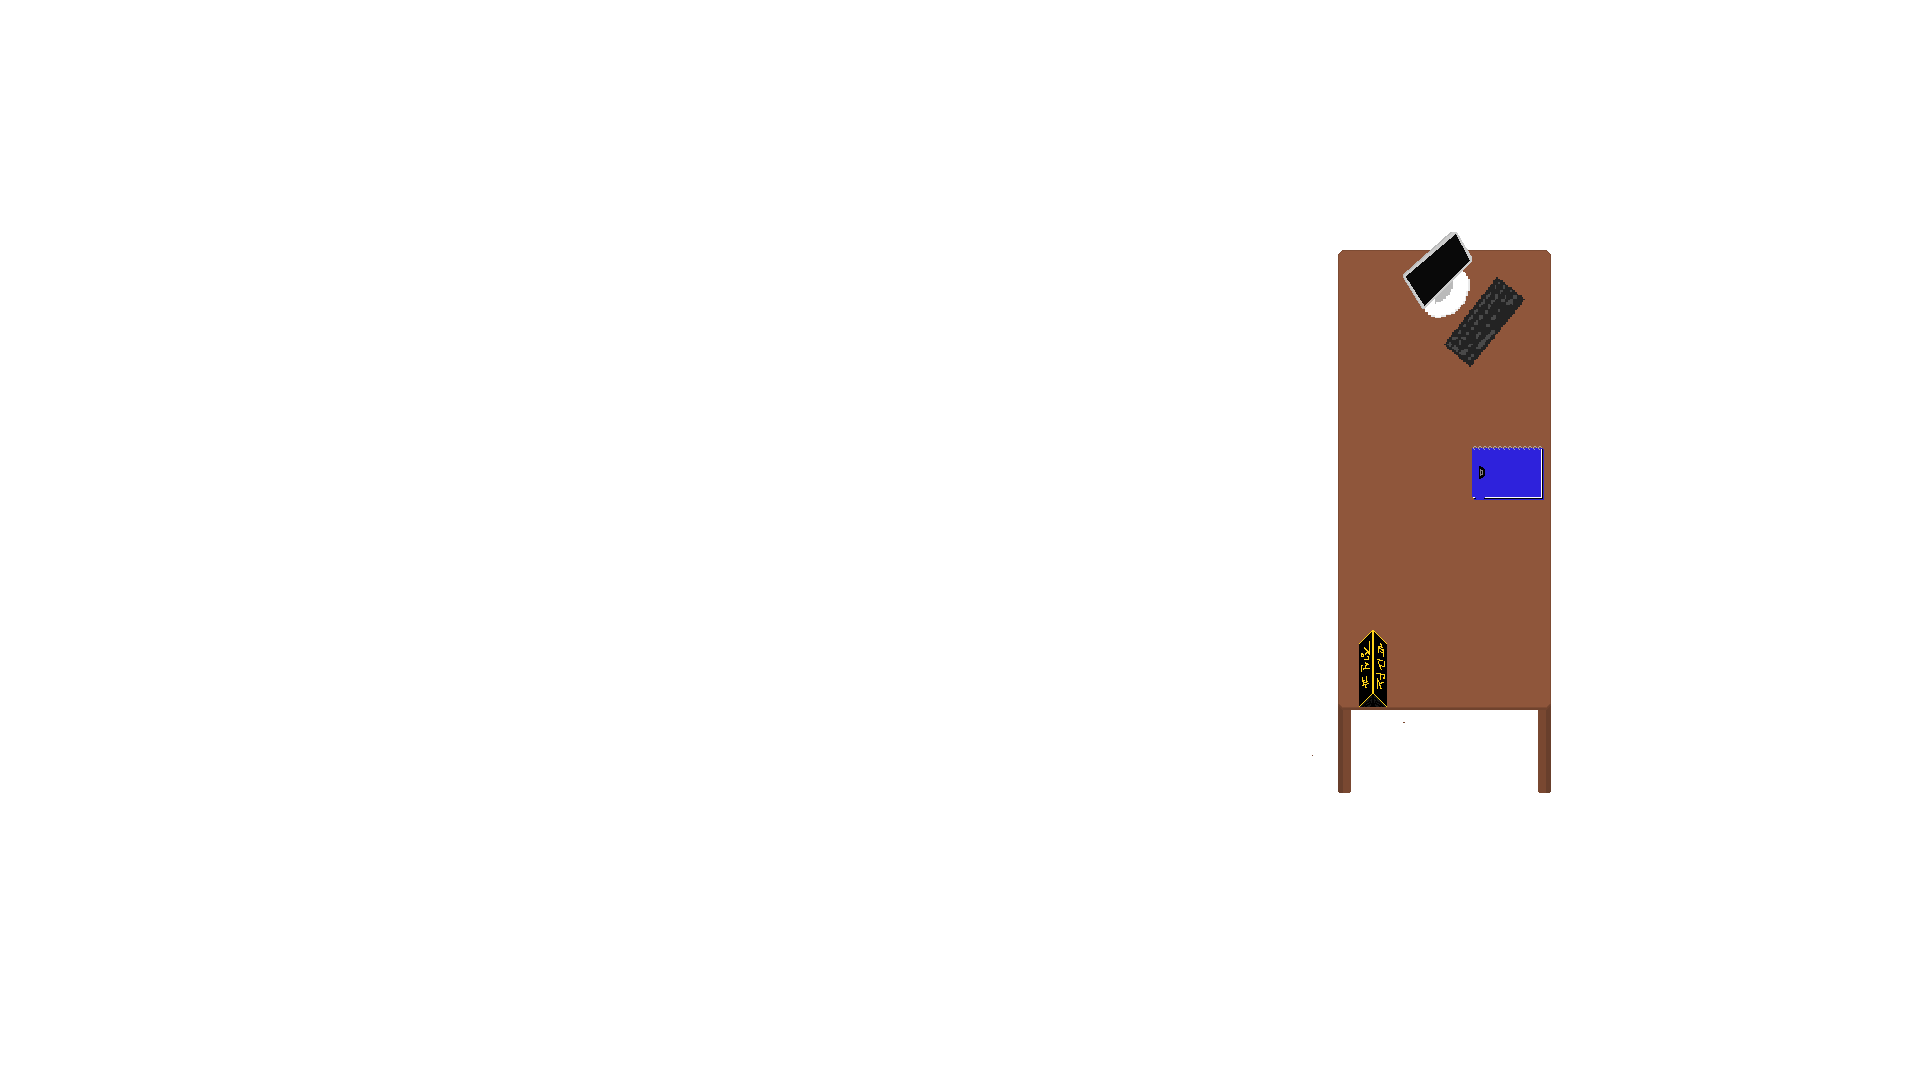
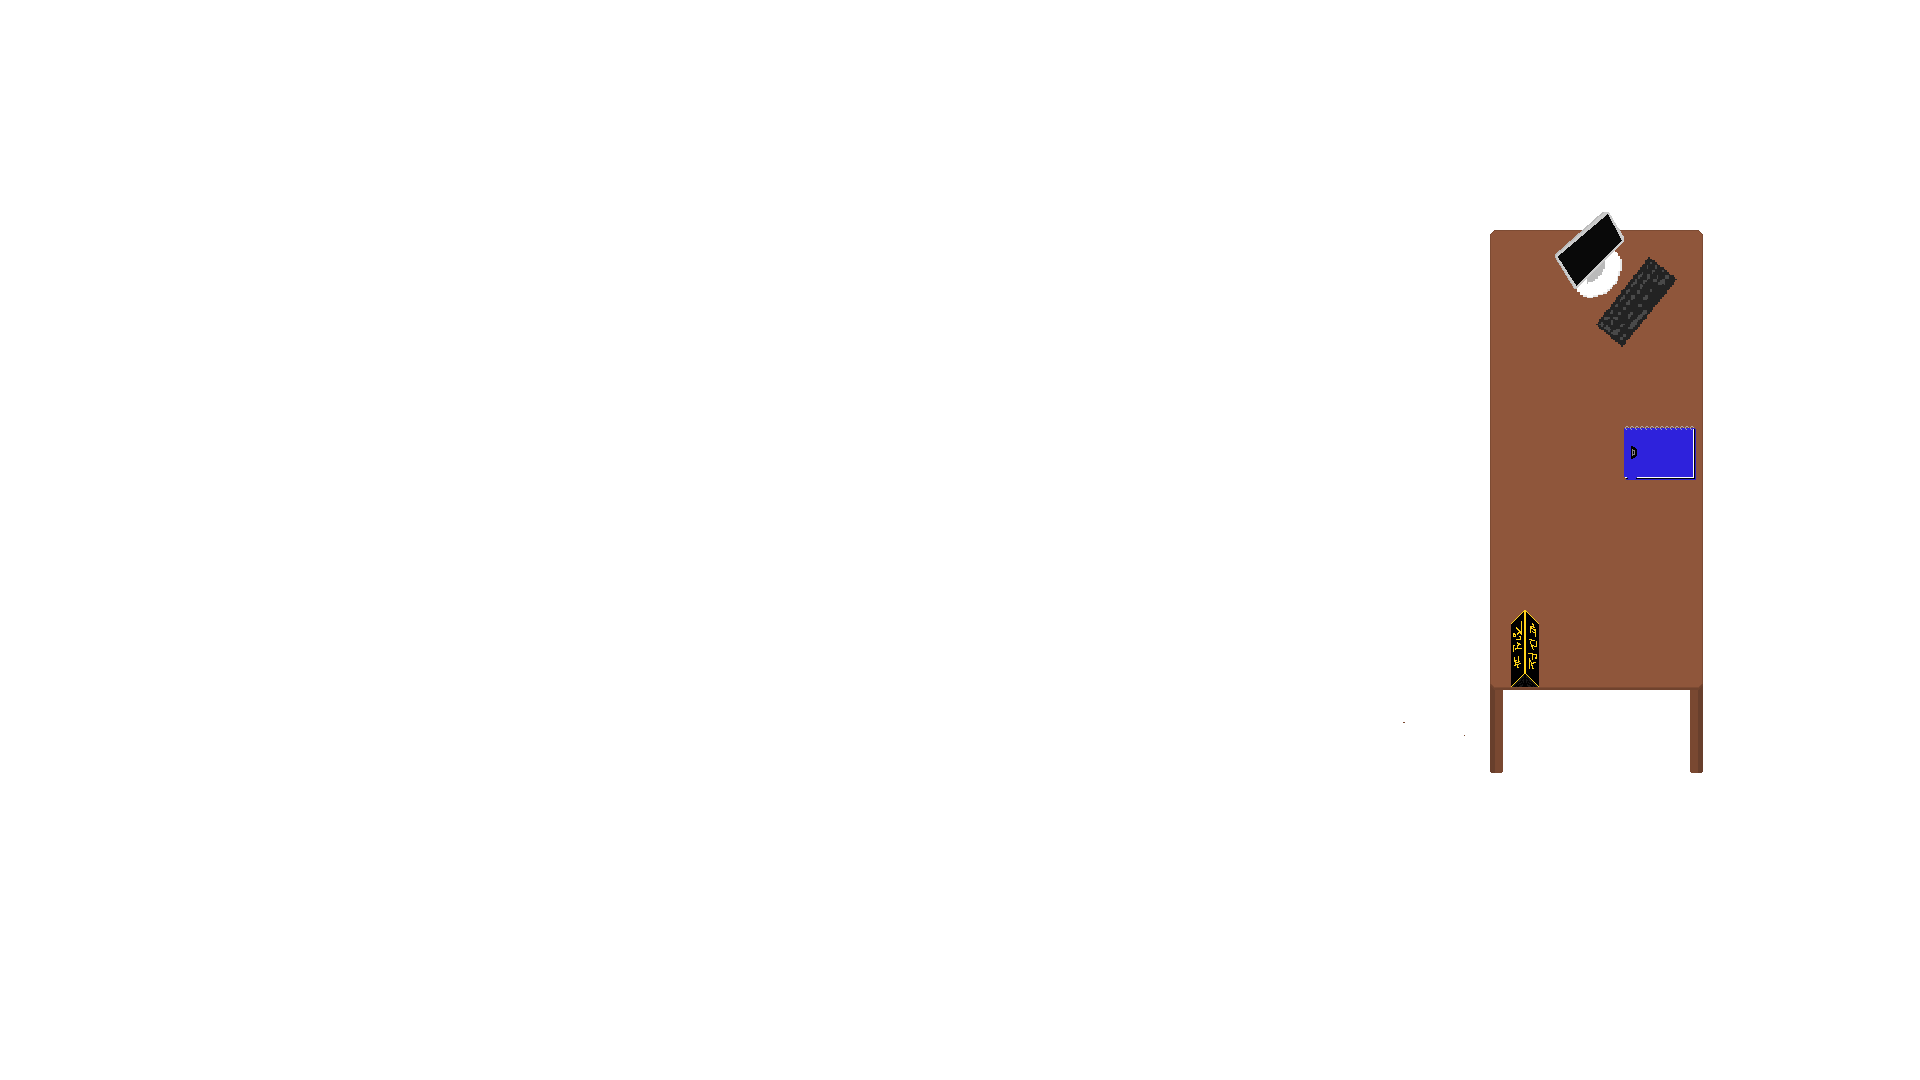
버튼상호작용및 책상 추가 not a file object 오류 수정해야함

Changed region(s): [[0.6875, 0.1833, 0.9062, 0.7333]]

diff --git a/day_dream.py b/day_dream.py
@@ -102,6 +102,21 @@ class Doctor:
     def draw(self):      
         screen.blit(self.image, self.doctorpos)      #의사를 초기위치에 그림
 
+#오브젝트클래스 작성
+class Object:
+    def draw(image, object_xpos, object_ypos):
+        image3 = image
+        image1 = pygame.image.load(image3)
+        image_size = image1.get_rect().size
+        object_width = image_size[0]
+        object_height = image_size[1]
+        image3 = pygame.transform.scale(image3, (object_width, object_height))
+        rect = pygame.Rect(image3.get_rect())  
+        rect.centerx = object_xpos
+        rect.centery = object_ypos
+        screen.blit(image3,(object_xpos, object_ypos))
+    
+
 
 #타이머 클래스 작성
 class Timer:
@@ -150,6 +165,7 @@ def main(map_lotate):
     doctor = Doctor()
     user = Player()
     timer = Timer()
+    object = Object()
     timer.start()
     doctor_meat = 0
     comu_image = pygame.image.load(os.path.join(image_path,current_path1 + '\\interface\\community_box.png'))
@@ -157,6 +173,7 @@ def main(map_lotate):
     comu_width = comu_button_size[0]
     comu_height = comu_button_size[1]
     click_comu_image = pygame.image.load(os.path.join(image_path,current_path1 + '\\interface\\click_community_box.png'))
+    desk_image = '\\object\\desk.png'
     while running:
         #게임 종료
         event_list = pygame.event.get()
@@ -171,6 +188,7 @@ def main(map_lotate):
 
             doctor.draw()
             user.draw(event_list)
+            object.draw(desk_image, [1490, 230])
 
             if pygame.sprite.collide_rect(user, doctor):
                 doctor_meat = 1
@@ -193,7 +211,7 @@ def main(map_lotate):
                 doctor_meat = 0
 
             if doctor_meat == 1:
-                community = Button(comu_image,1664, height / 2 - 128, comu_width, comu_height, click_comu_image,1664,height / 2 - 128, Comu)
+                community = Button(comu_image,1664, height / 2 - 128, comu_width, comu_height, click_comu_image,1664,height / 2 - 128, Comu(1))
             print("1")
             pygame.display.update()
                 
